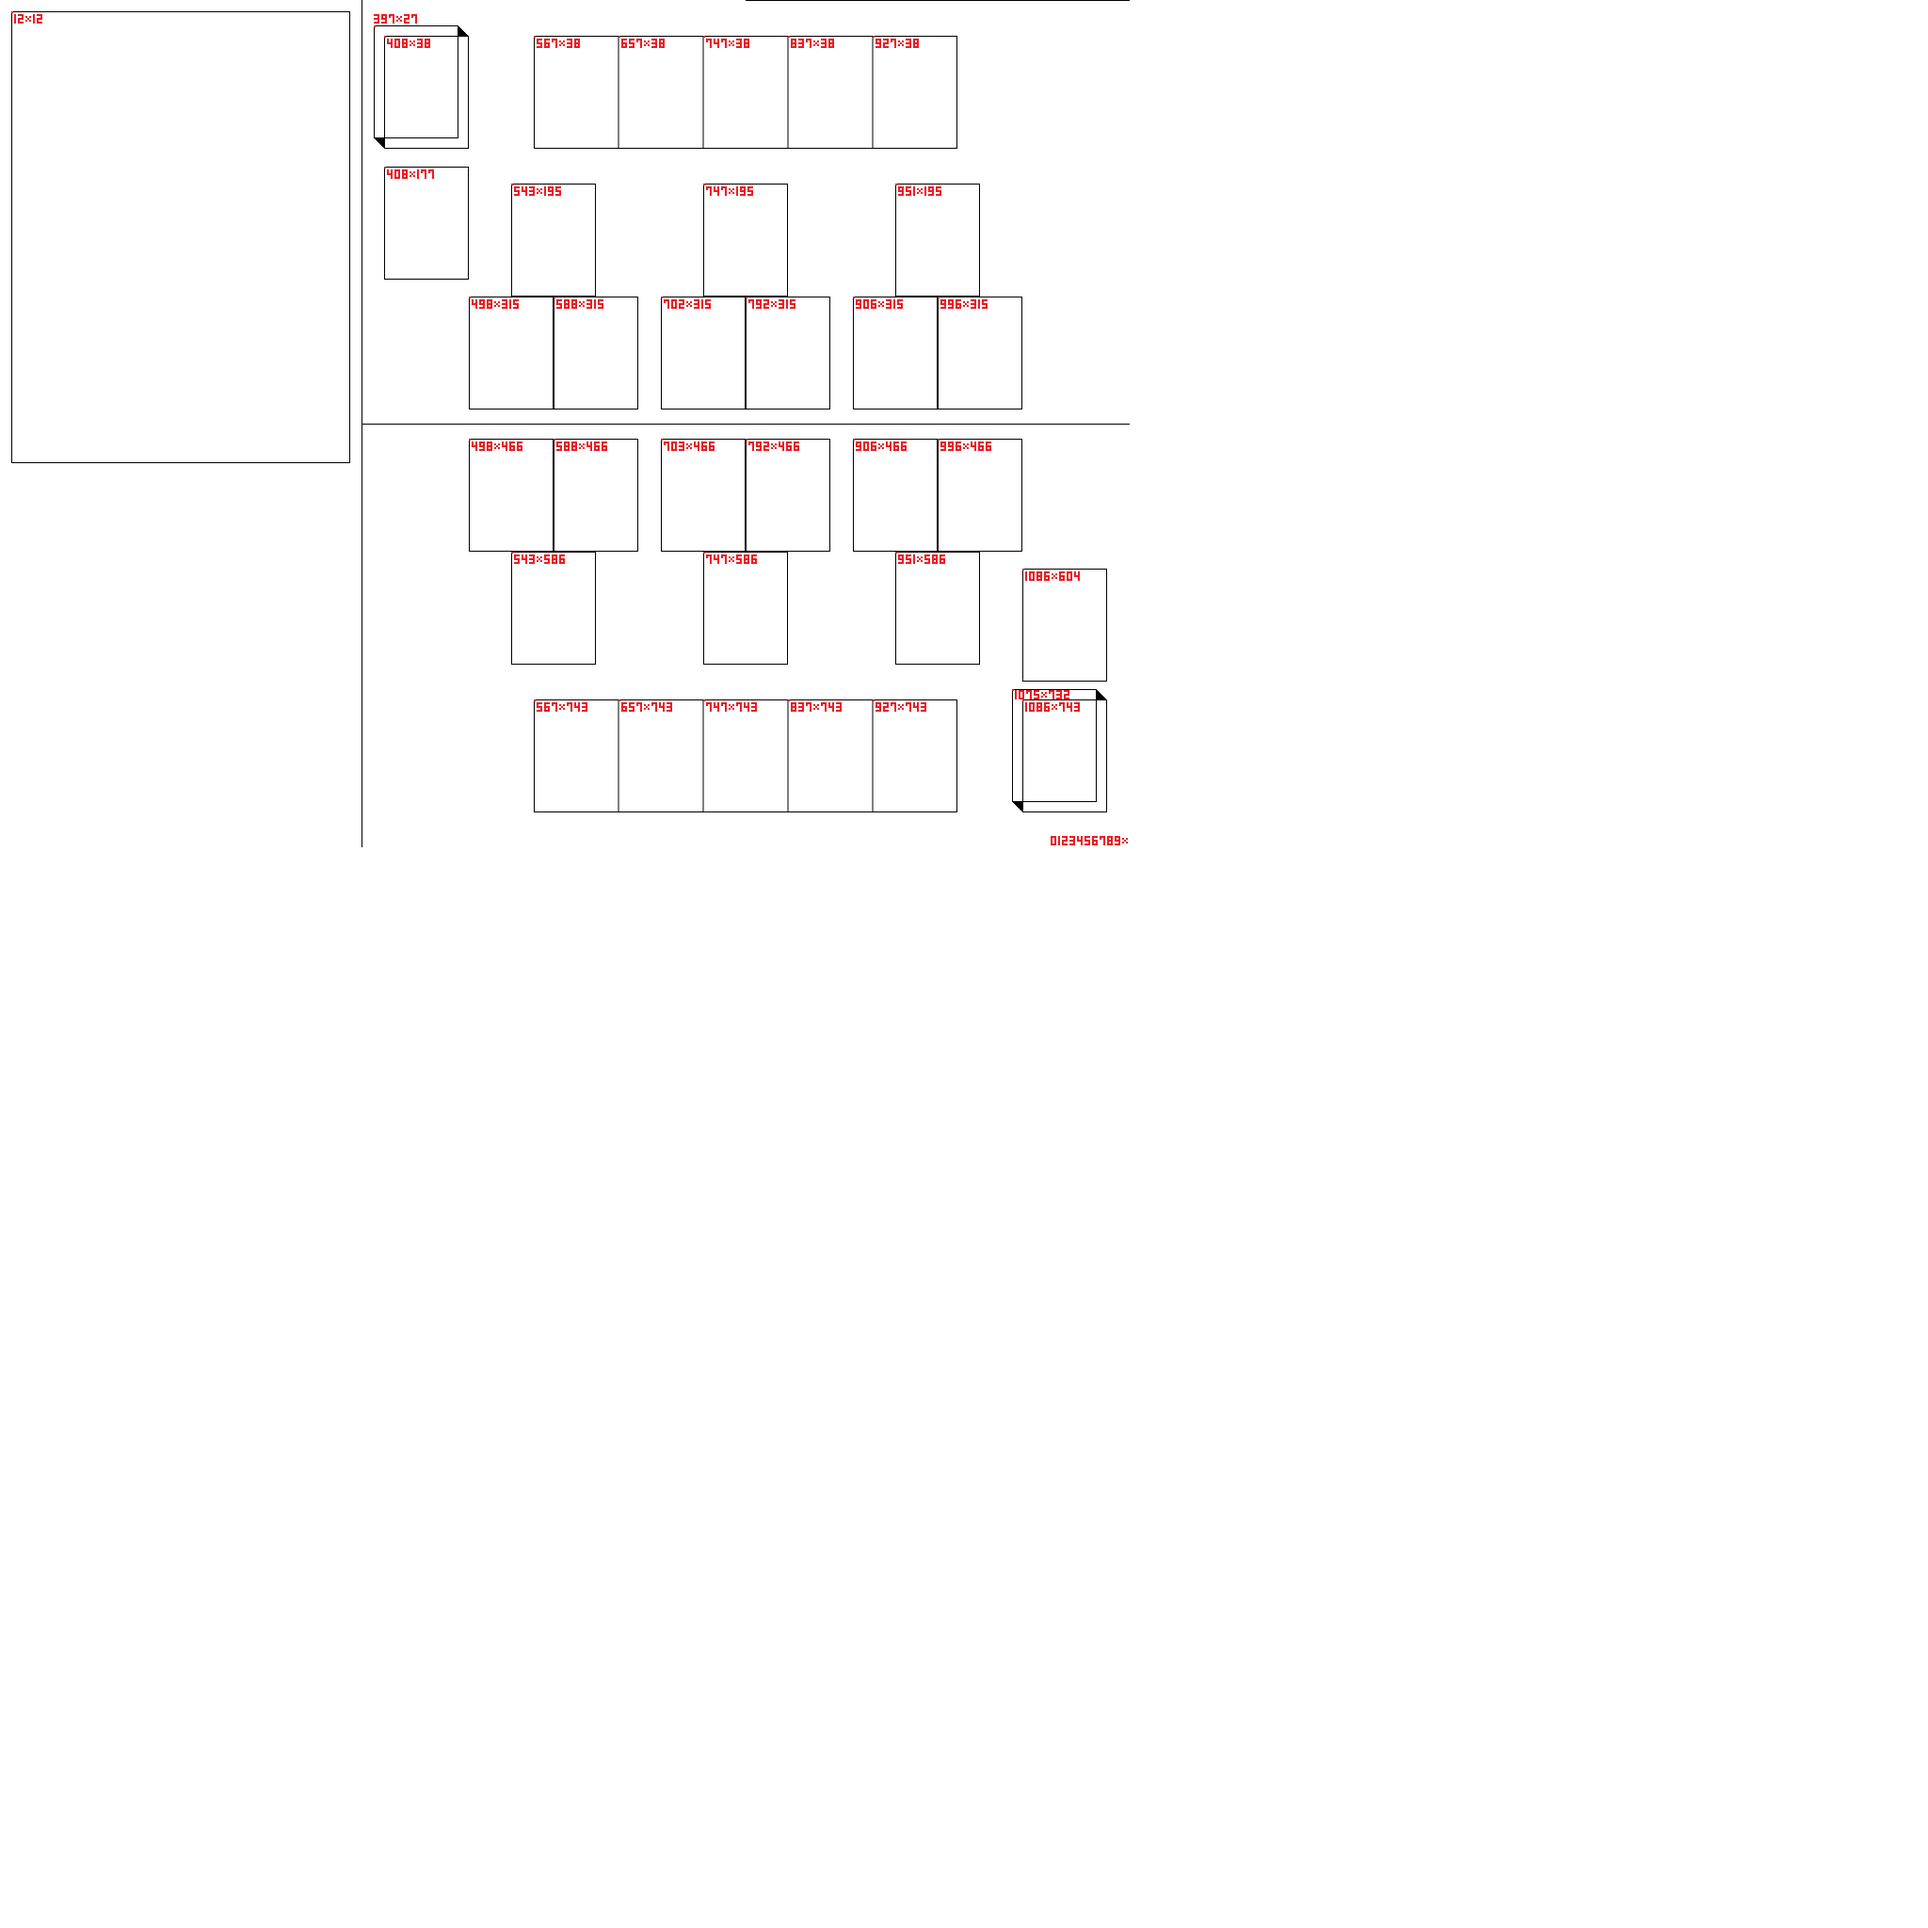
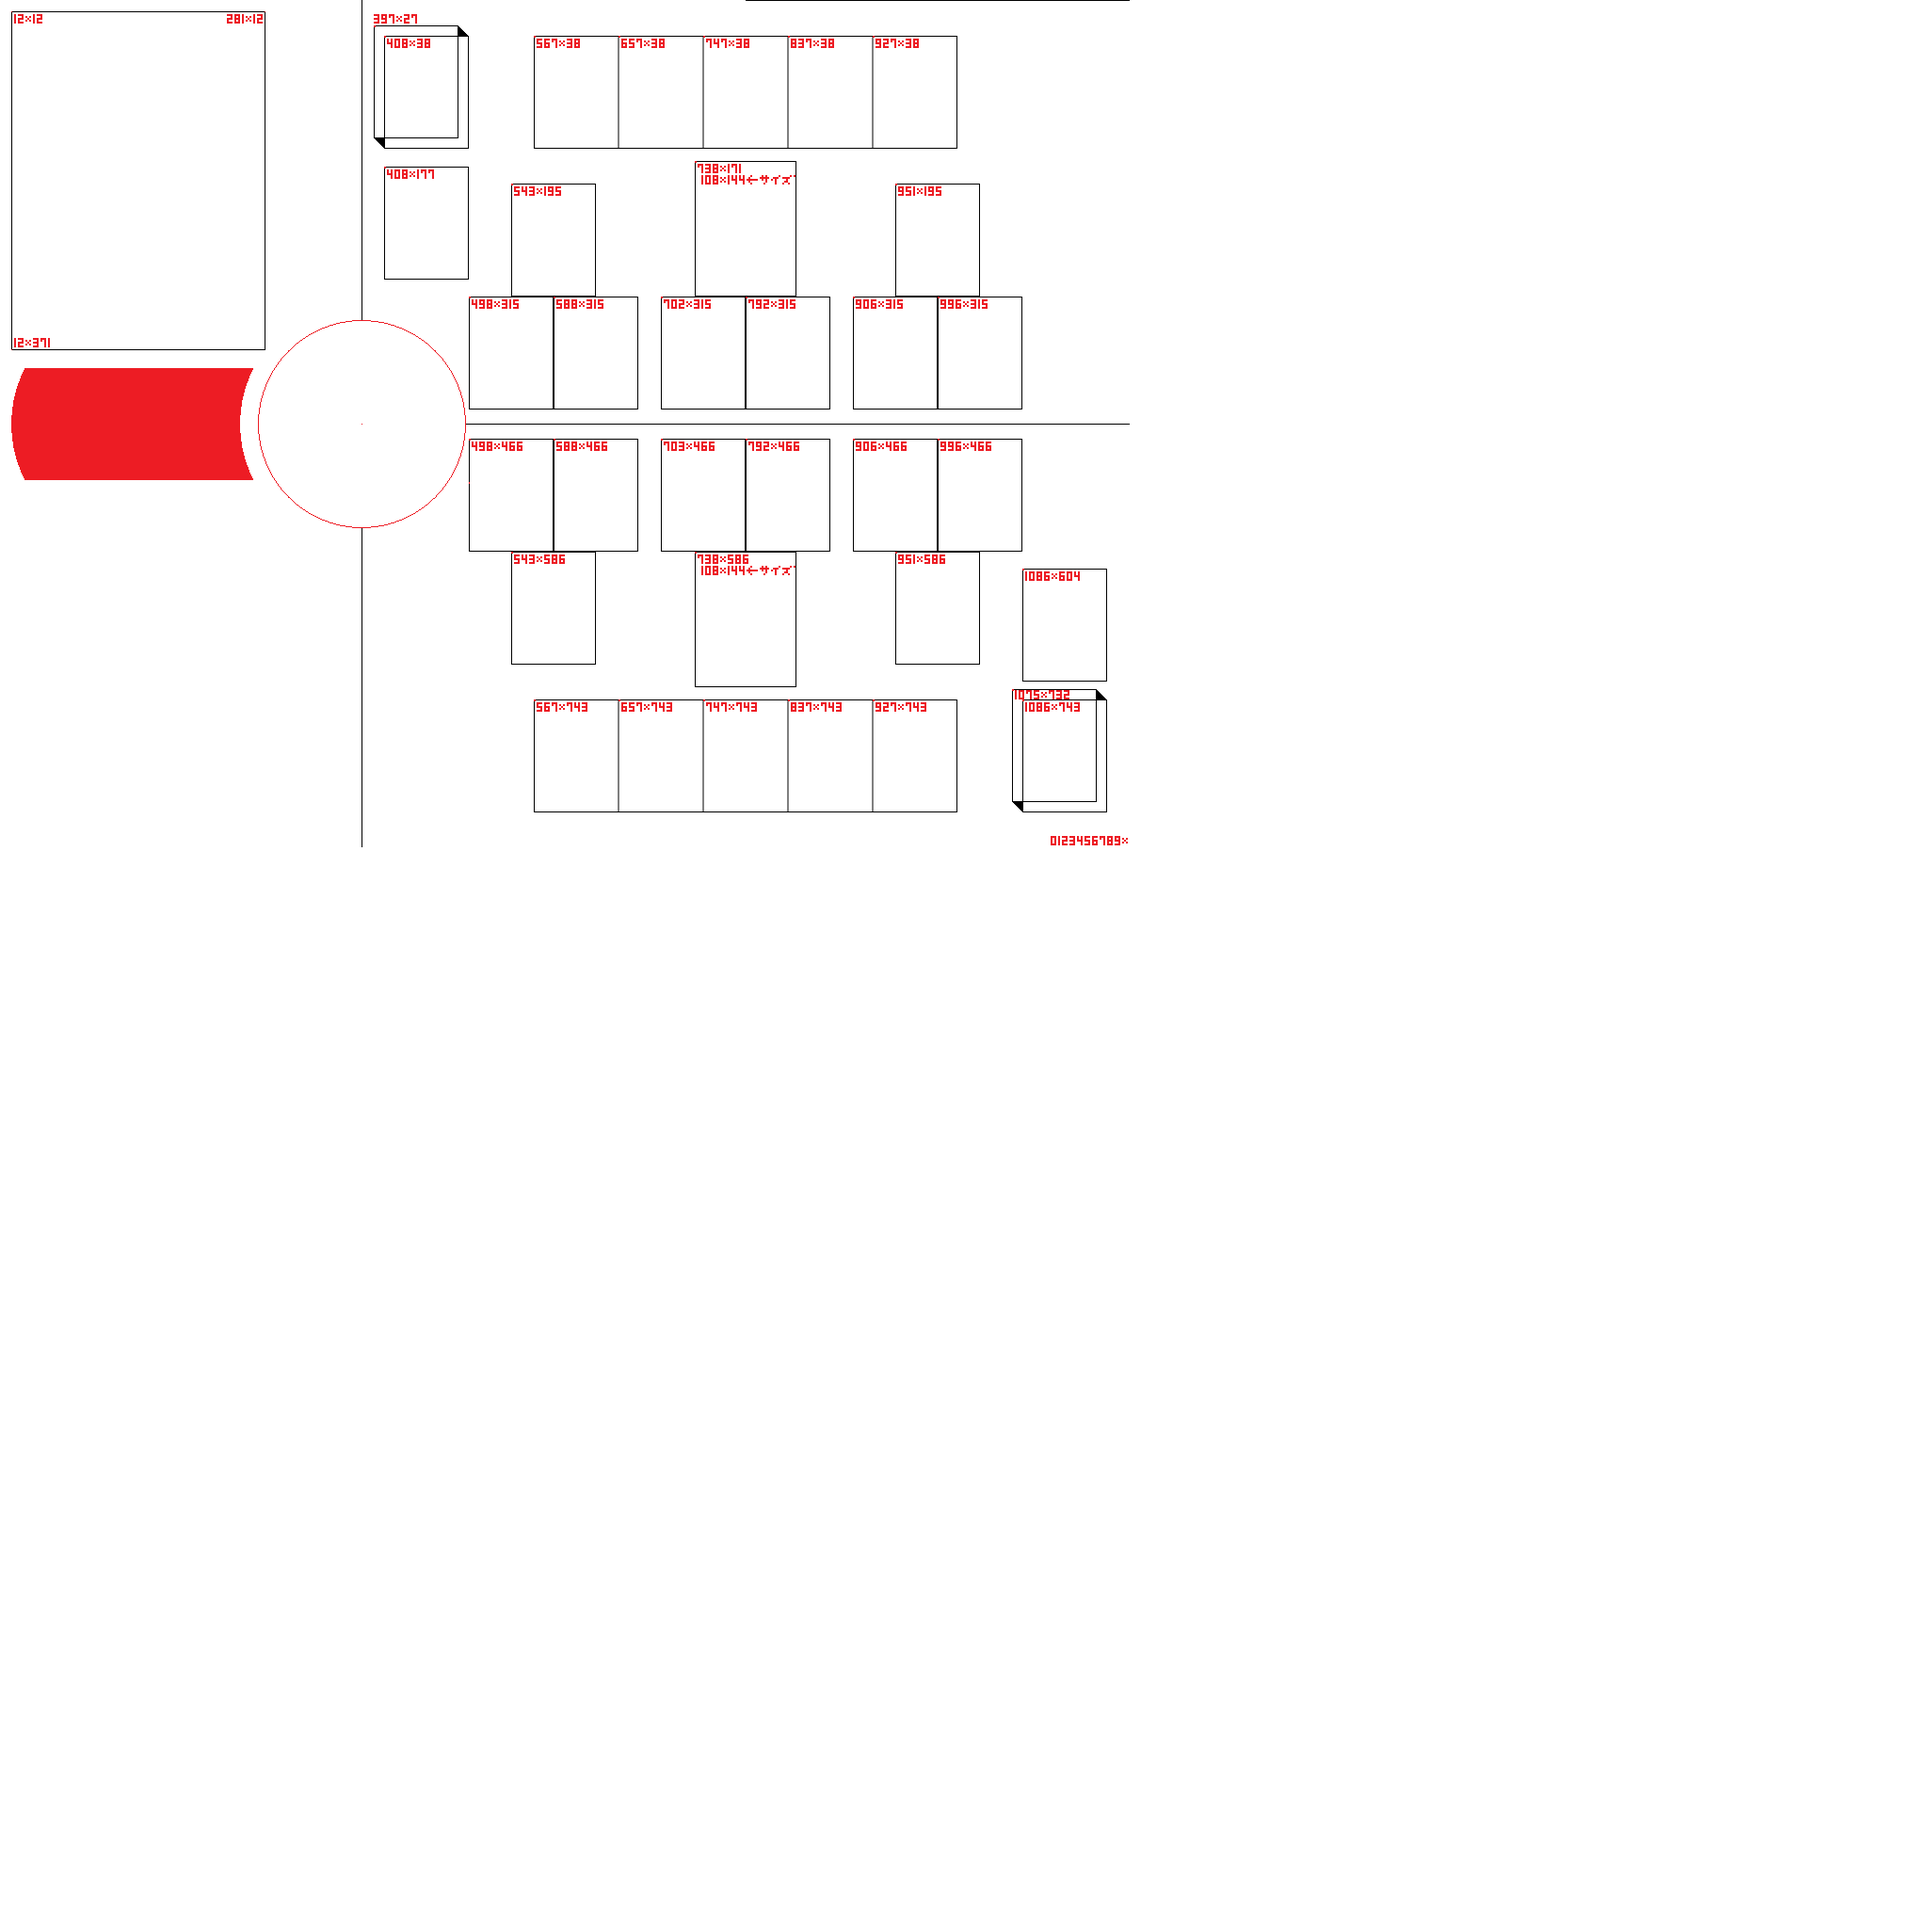
表示サイズ変更

Changed region(s): [[0.0, 0.1875, 0.125, 0.25]]

diff --git a/Main/Main/EnemyCard.cpp b/Main/Main/EnemyCard.cpp
@@ -183,6 +183,7 @@ void CObjEnemyCard::Draw()
 	float c[4] = { 1.0f,1.0f,1.0f,1.0f };
 	RECT_F src;
 	RECT_F dst;
+
 	if (Number < 4 && Number !=2) {
 		src.m_top = 0.0f + (Number + 1) * 64;
 		src.m_left = 0.0f;
@@ -209,10 +210,10 @@ void CObjEnemyCard::Draw()
 
 	if (CardHitCheck == true)
 	{
-		dst.m_top = 13.0f;
-		dst.m_left = 13.0f;
-		dst.m_right = 371.0f;
-		dst.m_bottom = 491.0f;
+		dst.m_top = 12.0f;
+		dst.m_left = 12.0f;
+		dst.m_right = 281.0f;
+		dst.m_bottom = 371.0f;
 
 		Draw::Draw(0, &src, &dst, c, 0);
 	}

diff --git a/Main/Main/Card.cpp b/Main/Main/Card.cpp
@@ -880,9 +880,9 @@ void CObjCard::Draw()
 		float c[4] = { 1.0f,1.0f,1.0f,1.0f };
 
 		dst.m_top = 12.0f;
-		dst.m_left = 13.0f;
-		dst.m_right = 371.0f;
-		dst.m_bottom = 491.0f;
+		dst.m_left = 12.0f;
+		dst.m_right = 281.0f;
+		dst.m_bottom = 371.0f;
 
 		wchar_t atr[256];
 		wchar_t aatr[5][64];
